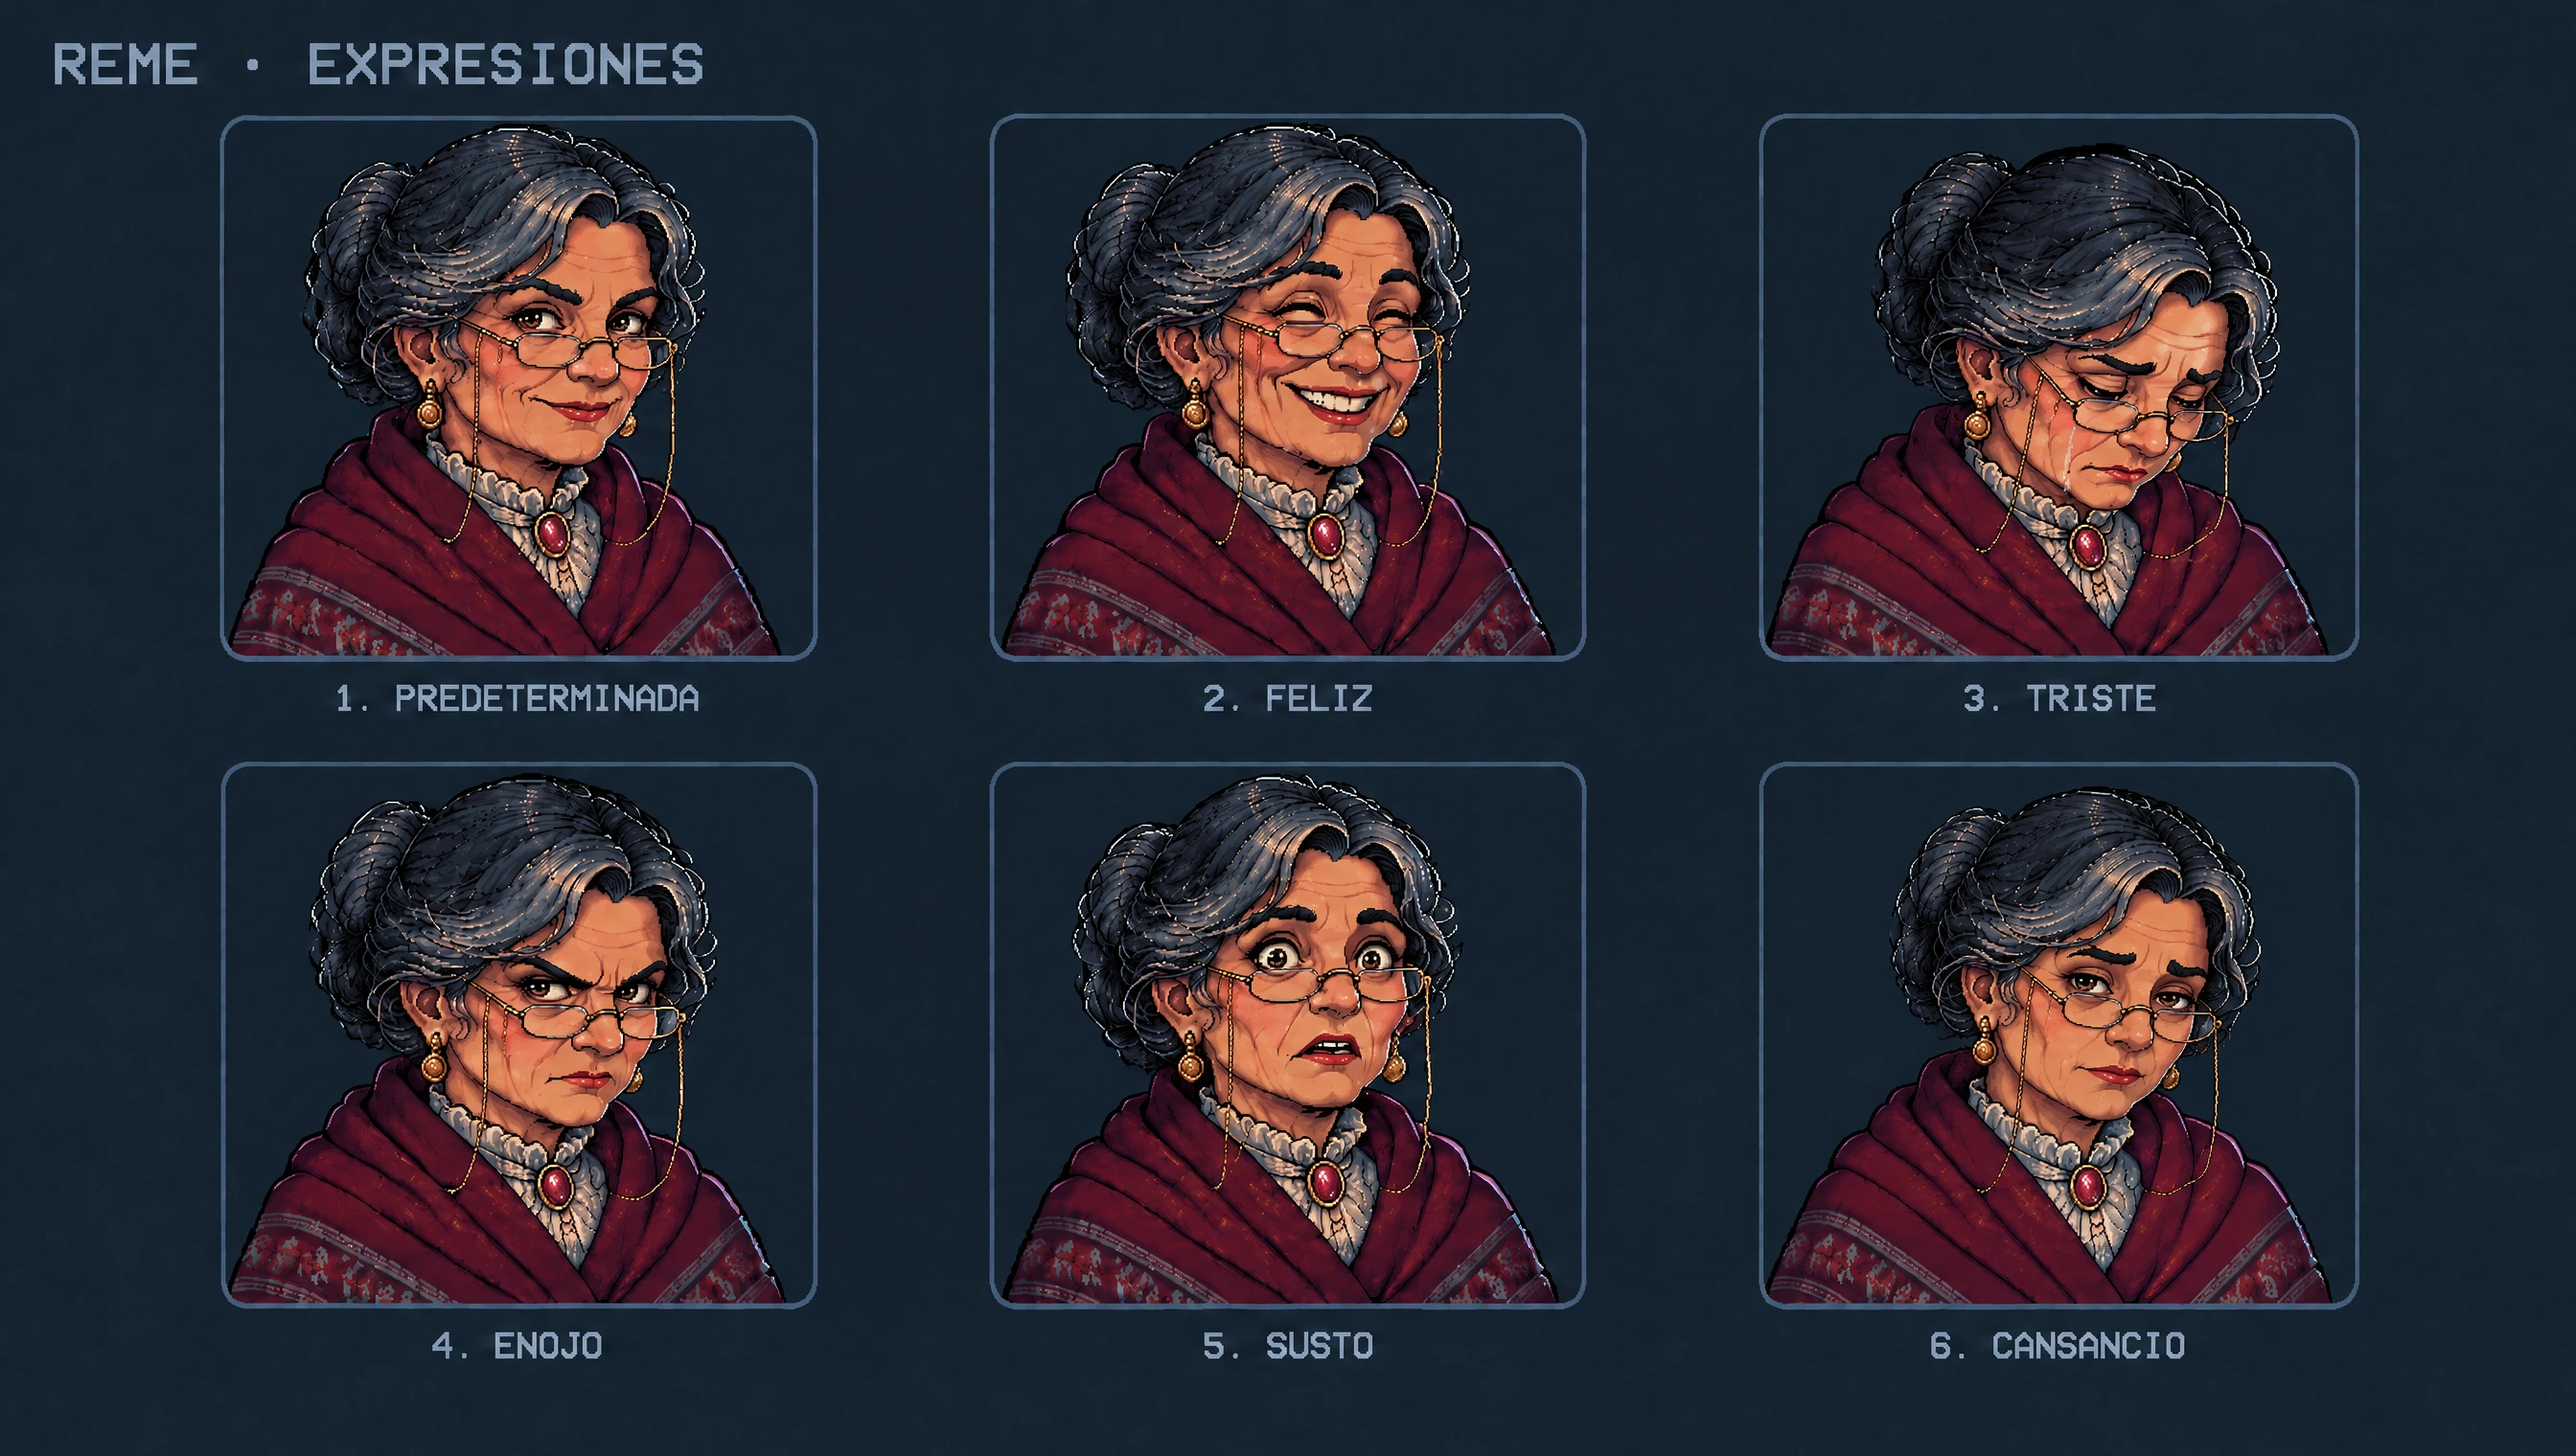
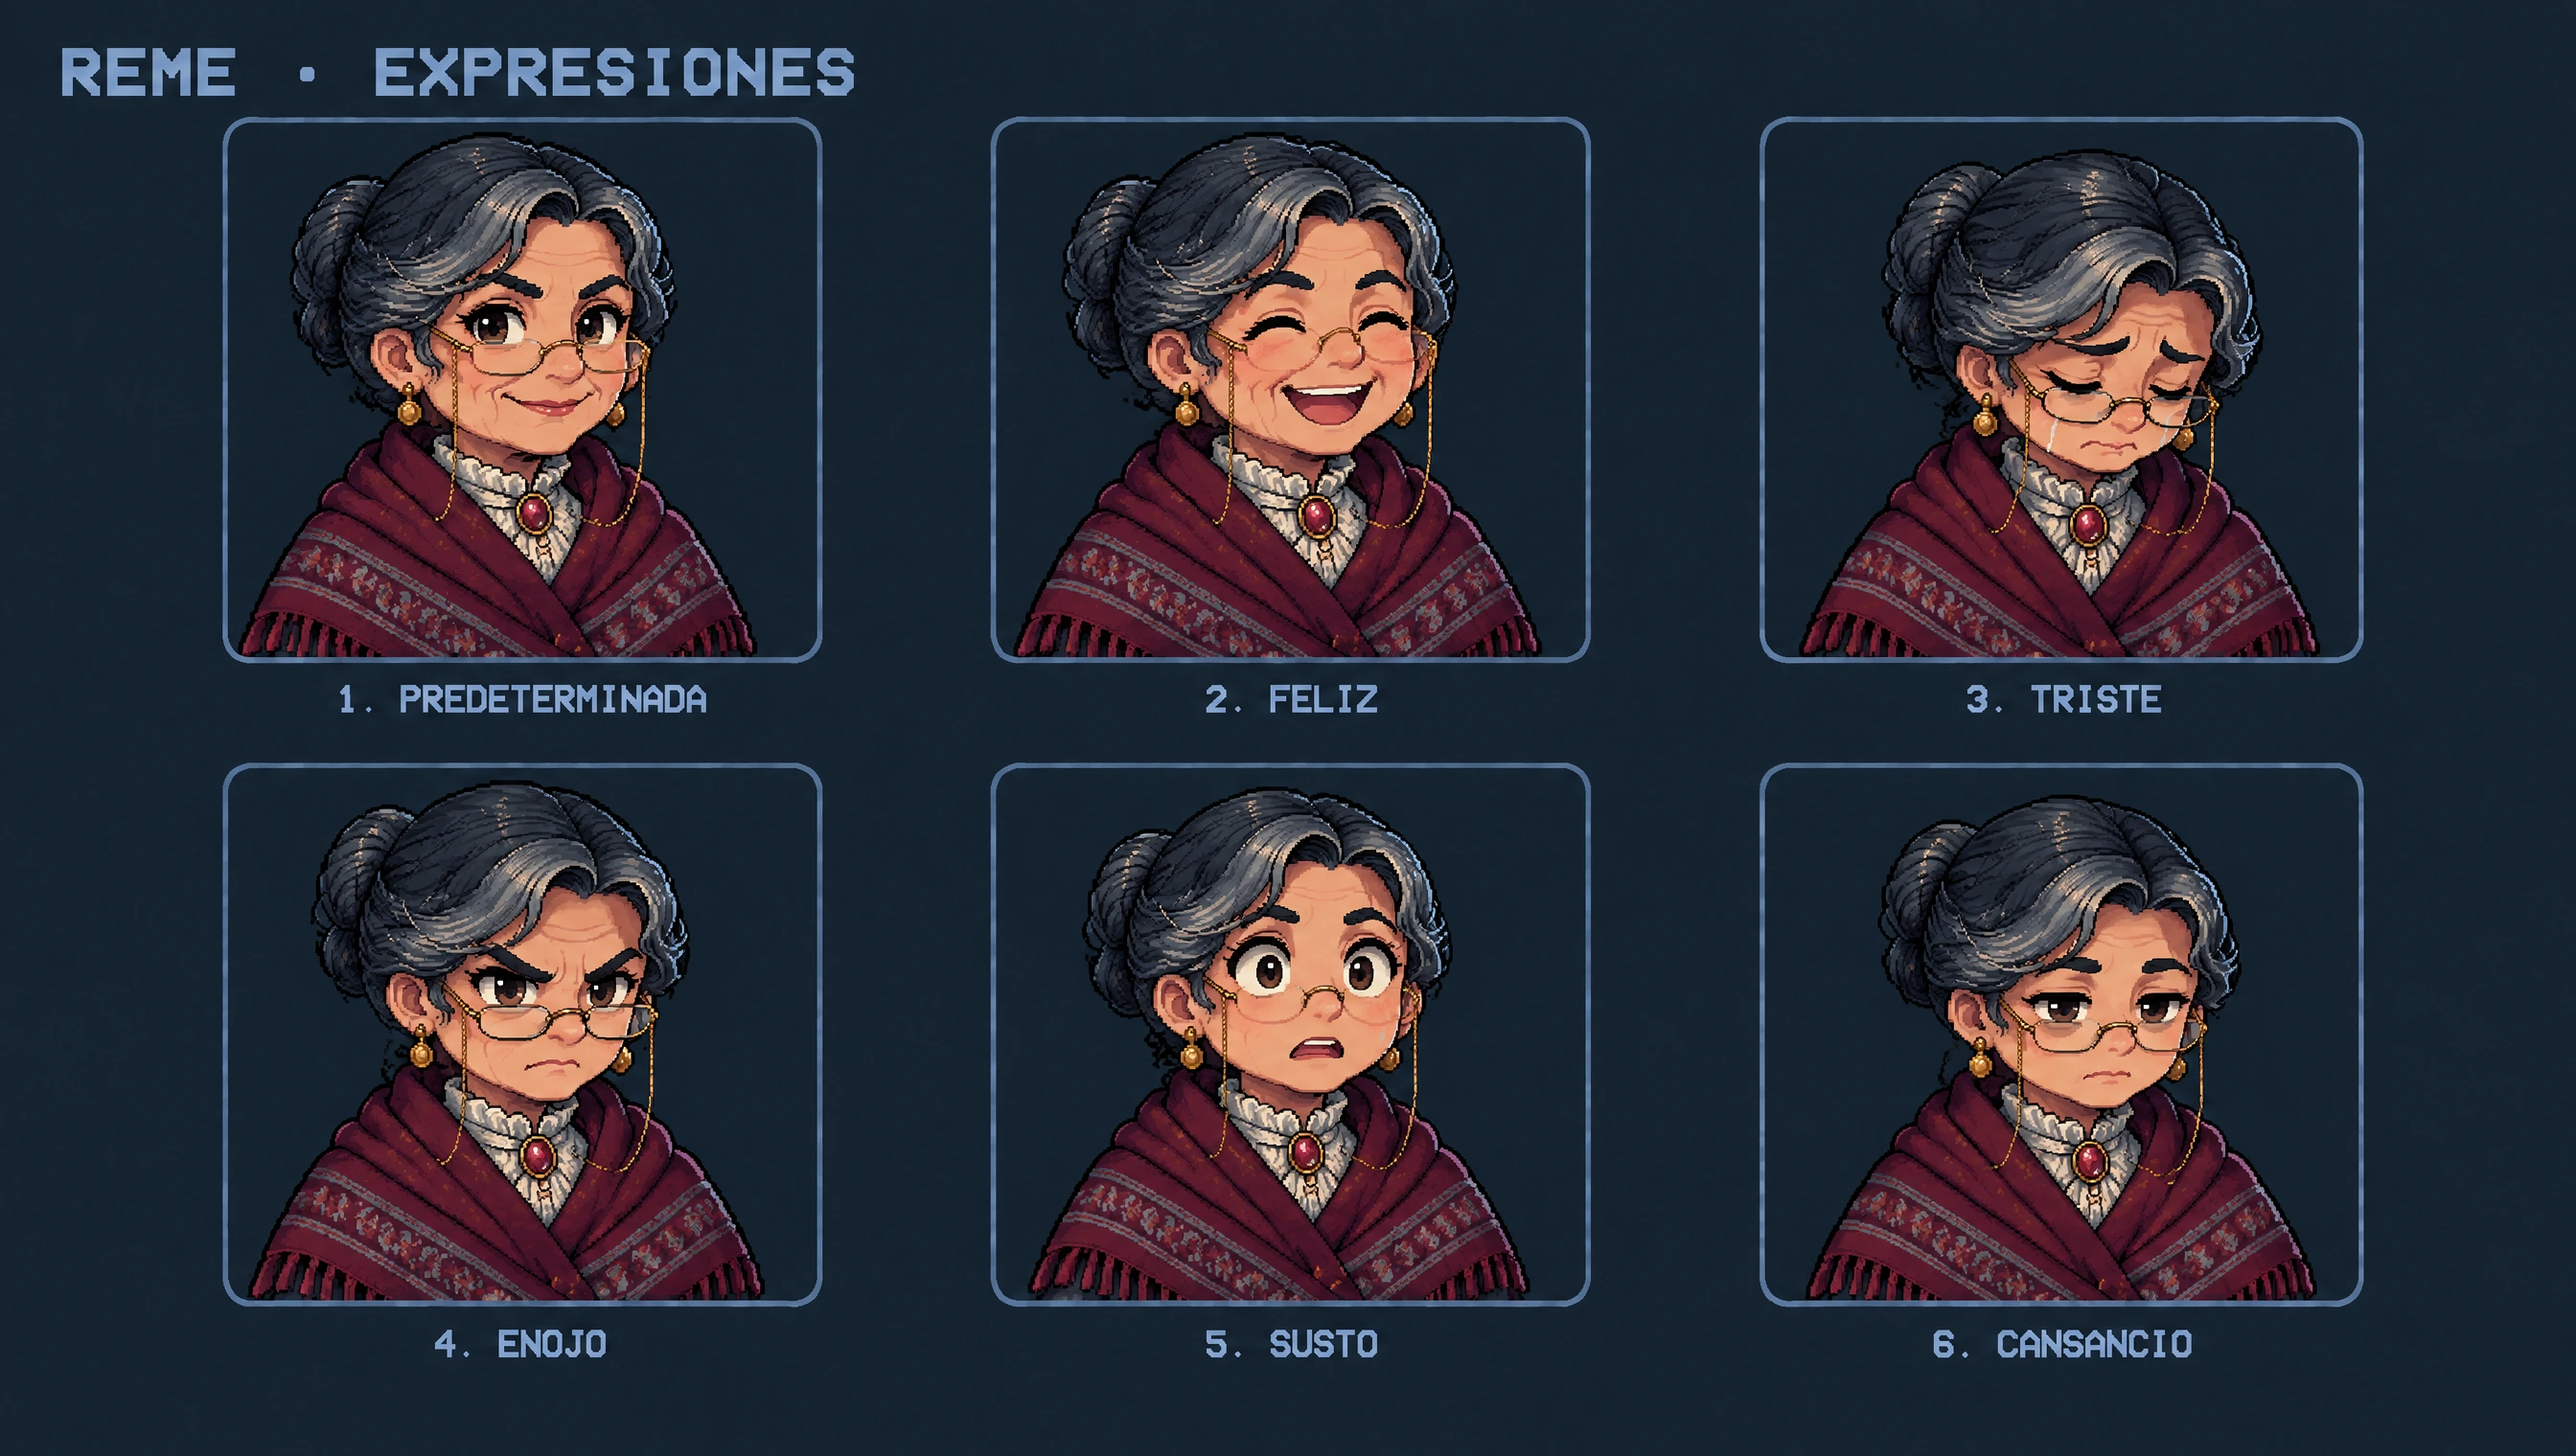
docs(arte): F0-61 corrige las poses de la mujer y reestiliza las expresiones de Reme
Poses con ocho fotogramas de caminar y rótulos correctos. Las expresiones de
Reme siguen el estilo de las del protagonista, que el documento 12 fija para
todos. F0-61 pasa a terminada por aprobación del autor.

diff --git a/studio/docs/12-direccion-de-arte.md b/studio/docs/12-direccion-de-arte.md
@@ -136,7 +136,7 @@ El juego es **horizontal (landscape)**. Catorce imágenes en `studio/assets-ref/
 
 **Estética chibi de referencia ✅:** el sprite del ministro (`ministro-corregido.png`). Todos los personajes del modelo y las poses llevan esa estética: píxeles grandes y claramente visibles (cada personaje de unos 100 píxeles de alto), colores planos con 2 a 3 tonos por material, sombreado simple de bordes duros, contorno negro grueso, **sin textura fina, sin hebras de pelo y sin degradados**, ojos grandes y sencillos con un solo punto de brillo, boca pequeña, cabeza de cerca del 40 % de la altura y cuerpo compacto. El modelo y las poses de un mismo personaje tienen las mismas proporciones.
 
-**Expresiones ✅:** las seis tienen los mismos gestos para todos, sutiles y legibles. El **cansancio** es discreto (párpados pesados, ojeras leves, boca relajada), no exagerado y distinto de triste.
+**Expresiones ✅:** retrato de busto en pixel art con la estética del modelo: ojos grandes y expresivos, sombreado plano suave y el mismo tamaño de píxel, como en las hojas del protagonista y de Reme. Las seis tienen los mismos gestos para todos, sutiles y legibles: la **predeterminada** según la personalidad, feliz (riendo), triste (con una lágrima), enojo, susto y cansancio. El **cansancio** es discreto (párpados pesados, ojeras leves, boca relajada), no exagerado y distinto de triste.
 
 **Hojas de NPC:** una por tipo (frente, espalda, un lado y dos expresiones). Los 35 tipos están en el registro del mundo (`studio/data/world.json`): Ministerio, Comisión del Éter, Consorcio Arvel, Unión, Los Faroleros, prensa, empleados, civiles, enemigos humanos y criaturas de La Fosa. Los jefes de zona quedan diferidos (⏳ F0-69).
 
